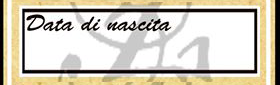
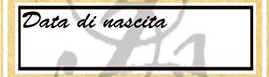
v.0.0.29

diff --git a/src/pages/home/home.html b/src/pages/home/home.html
@@ -27,14 +27,15 @@
     <ion-item class="list1">
       <img  class="myimg" [src]="myimg" style="vertical-align: middle;">
     </ion-item>
+
     <ion-item class="list2 bigger alc">
-      <br>{{mieidati.NomePG}} {{mieidati.CognomePG}}
+      <br>{{mieidati.NomePG}} {{mieidati.CognomePG}}<br><br>
     </ion-item>
     <ion-item class="list3 bigger alc">
-      <br>{{mieidati.gg}}/{{mieidati.mm}}/{{mieidati.aaaa}}
+      <br>{{mieidati.gg}}/{{mieidati.mm}}/{{mieidati.aaaa}}<br><br>
     </ion-item>
     <ion-item class="list4 bigger alc">
-      <br>{{mieidati.nomespecial}}
+      <br>{{mieidati.nomespecial}}<br><br>
     </ion-item>
   </ion-list>
   <!---

diff --git a/src/pages/home/home.scss b/src/pages/home/home.scss
@@ -5,7 +5,7 @@ page-home {
       width: auto; */
       width: auto;
       max-width: 150px;
-      height: 140px;
+      height: 150px;
       /** position: absolute;**/
       margin-top: 0;
       bottom: 0;
@@ -16,7 +16,7 @@ page-home {
   .myimg {
 
       margin-top: 40px !important;
-      margin-left: 25px !important;
+      margin-left: 40px !important;
 
   }
 
